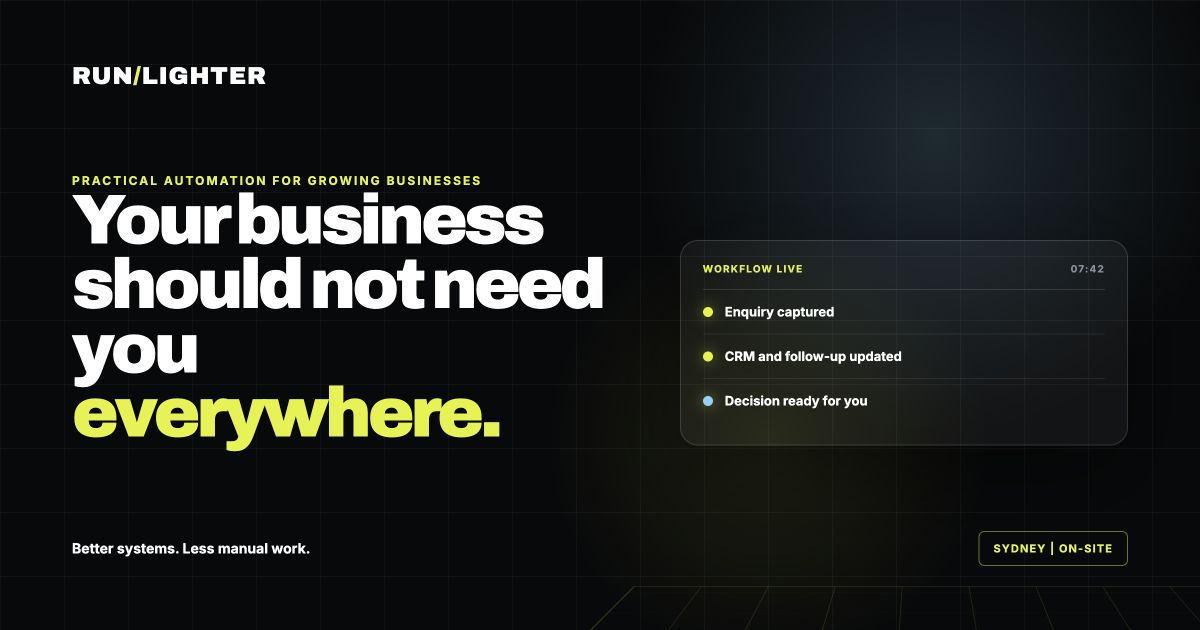
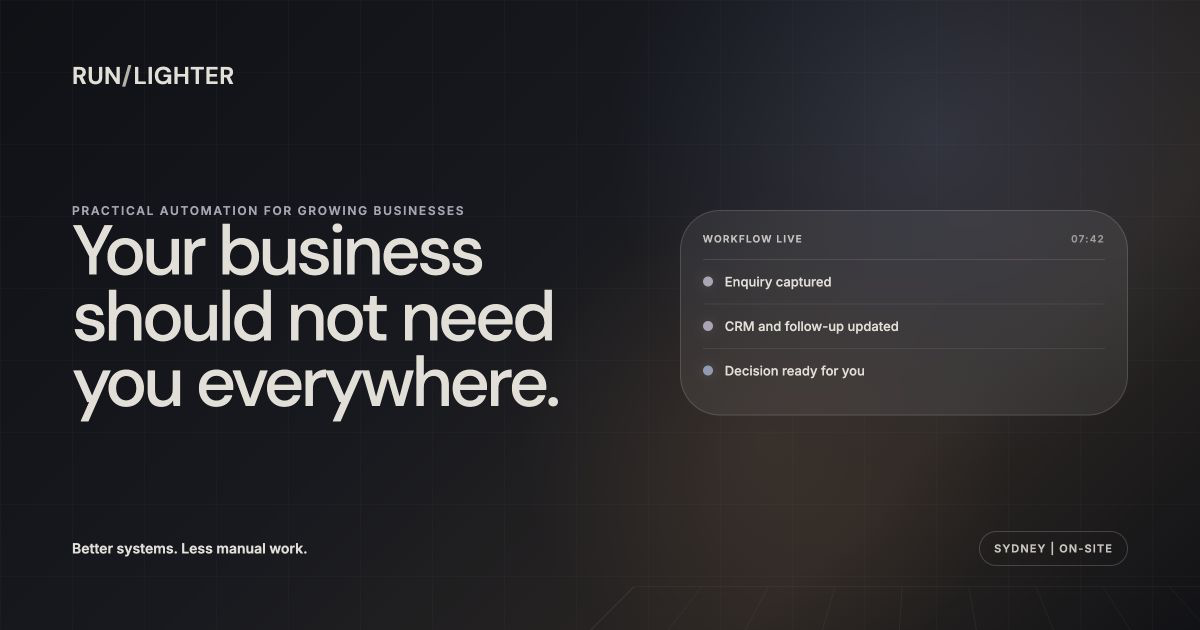
Calm the Run Lighter visual system

diff --git a/index.html b/index.html
@@ -20,7 +20,7 @@
 <link rel="icon" type="image/png" href="assets/favicon.png">
 <link rel="preconnect" href="https://fonts.googleapis.com">
 <link rel="preconnect" href="https://fonts.gstatic.com" crossorigin>
-<link href="https://fonts.googleapis.com/css2?family=Archivo:wght@500;600;700;800;900&amp;family=Inter:wght@400;500;600;700&amp;display=swap" rel="stylesheet">
+<link href="https://fonts.googleapis.com/css2?family=DM+Sans:wght@400;500;600&amp;family=Inter:wght@400;500;600;700&amp;display=swap" rel="stylesheet">
 <style>
 :root{
   --void:#08090a;
@@ -196,6 +196,103 @@ footer{padding:62px 0 36px;background:var(--void);border-top:1px solid var(--lin
   .container{width:min(100% - 36px,1180px)}.nav-links{display:none}.menu-btn{display:inline-flex}.hero h1{font-size:clamp(47px,14vw,68px)}.hero::after{left:5%;width:110vw}.system-stage{padding:14px}.stage-foot,.cards,.tiers,.fit-grid,.form-row{grid-template-columns:1fr}.bento{grid-template-columns:1fr}.panel.large,.panel.wide{grid-column:auto}.panel.large{min-height:450px}.cards .card{min-height:230px}.method-grid{gap:36px}.step{grid-template-columns:48px 1fr;gap:16px}.trust-grid{grid-template-columns:1fr}.trust-item{border-right:0;border-bottom:1px solid var(--line-light)}.trust-item:last-child{border-bottom:0}.foot-grid{display:block}.foot-right{text-align:left;margin-top:28px}form{padding:20px}.micro{align-items:flex-start}.hero-ctas{display:grid}.hero-ctas .btn{width:100%}
 }
 @media(prefers-reduced-motion:reduce){html{scroll-behavior:auto}*,*::before,*::after{animation-duration:.01ms!important;animation-iteration-count:1!important;transition-duration:.01ms!important}.reveal{opacity:1;transform:none}}
+
+/* CALM DUSK DIRECTION */
+:root{
+  --void:#0a0a0a;
+  --carbon:#111112;
+  --obsidian:#161616;
+  --graphite:#202024;
+  --smoke:#686868;
+  --ash:#9d9a98;
+  --fog:#b6b2ae;
+  --mist:#d0ccc6;
+  --bone:#e2ded7;
+  --paper:#171719;
+  --acid:#c8c3bd;
+  --cool:#8f99b5;
+  --line-dark:rgba(226,222,215,.14);
+  --line-light:rgba(226,222,215,.14);
+  --r-sm:9999px;
+  --r-md:24px;
+  --r-lg:40px;
+}
+body{background:var(--void);color:var(--bone)}
+h1,h2,h3,.wordmark{font-family:'DM Sans','Inter',sans-serif;letter-spacing:-.035em}
+h2{font-weight:500}
+h3{font-weight:500}
+.section{padding:88px 0}
+.wordmark{font-weight:600;letter-spacing:.015em}
+.eyebrow{color:#aaa5b4;font-weight:600;letter-spacing:.14em}
+.eyebrow::before{box-shadow:none;background:#aaa5b4}
+.btn{background:var(--bone);color:var(--void);font-weight:600;box-shadow:none}
+.btn:hover{background:#f0ece5;box-shadow:0 0 0 4px rgba(226,222,215,.08);transform:translateY(-1px)}
+.btn.ghost{background:rgba(212,212,212,.06);border-color:rgba(229,229,229,.22);color:var(--bone)}
+.btn.ghost:hover{background:rgba(212,212,212,.1);border-color:rgba(229,229,229,.32)}
+nav{top:16px;left:50%;right:auto;width:min(1100px,calc(100% - 32px));transform:translateX(-50%);border:1px solid rgba(229,229,229,.14);border-radius:9999px;background:rgba(18,18,19,.64);backdrop-filter:blur(24px)}
+nav.scrolled{background:rgba(18,18,19,.86);border-color:rgba(229,229,229,.2)}
+.nav-inner{height:58px;padding:0 18px}
+.slash{color:#b6b0a8}
+.hero{padding-top:150px;background:linear-gradient(135deg,#101116 0%,#17191f 40%,#24201f 72%,#111216 100%)}
+.hero::before{background:radial-gradient(circle at var(--mx,75%) var(--my,25%),rgba(91,104,142,.28),transparent 32%),radial-gradient(circle at 72% 50%,rgba(154,112,83,.2),transparent 30%),linear-gradient(rgba(229,229,229,.025) 1px,transparent 1px),linear-gradient(90deg,rgba(229,229,229,.025) 1px,transparent 1px);background-size:auto,auto,72px 72px,72px 72px;mask-image:linear-gradient(to bottom,#000 58%,transparent 100%)}
+.hero::after{border-color:rgba(196,190,182,.12);background:repeating-linear-gradient(90deg,rgba(196,190,182,.07) 0 1px,transparent 1px 84px),repeating-linear-gradient(0deg,rgba(143,153,181,.06) 0 1px,transparent 1px 60px);box-shadow:none}
+.hero h1{font-weight:500;letter-spacing:-.052em}
+.hero h1 .mark{color:var(--bone)}
+.hero .lead{color:#c2beb8}
+.micro::before,.live i,.flow-node.done .node-icon{background:#aaa5b4;box-shadow:0 0 14px rgba(170,165,180,.25)}
+.system-stage{border-radius:40px;padding:20px;background:rgba(212,212,212,.08);backdrop-filter:blur(22px);box-shadow:none;border-color:rgba(229,229,229,.16)}
+.system-stage::before{background:radial-gradient(440px circle at var(--cx,50%) var(--cy,0%),rgba(143,153,181,.16),transparent 52%)}
+.live,.node-state{color:#c6c0b8}
+.flow-node{border-radius:18px;background:rgba(10,10,10,.52)}
+.node-copy b{font-family:'DM Sans','Inter',sans-serif;font-weight:500}
+.flow-node:hover{border-color:rgba(229,229,229,.28)}
+.flow-node.you .node-icon{background:#8f99b5;box-shadow:0 0 0 1px #8f99b5,0 0 14px rgba(143,153,181,.24)}
+.flow-node.you .node-state{color:#aeb7d0}
+.signal-track .dot{color:#8f99b5}
+.lighter{background:linear-gradient(145deg,#17191f,#262120 58%,#14161b);color:var(--bone)}
+.lighter::before{background:radial-gradient(circle at 8% 15%,rgba(154,112,83,.14),transparent 24%),radial-gradient(circle at 92% 78%,rgba(91,104,142,.16),transparent 26%)}
+.lighter .sub,.panel p{color:var(--fog)}
+.panel,.panel.wide{background:rgba(212,212,212,.07);border-color:rgba(229,229,229,.14);color:var(--bone);backdrop-filter:blur(18px);box-shadow:none}
+.panel:hover{box-shadow:none;border-color:rgba(229,229,229,.24)}
+.panel.large{background:rgba(10,10,10,.4)}
+.panel .tag{color:#aaa5b4}.panel.large .tag{color:#aaa5b4}
+.mini-line i{background:#aaa5b4;box-shadow:0 0 12px rgba(170,165,180,.22)}
+.big-number,.panel.large .big-number{color:rgba(226,222,215,.08)}
+.handover span{background:rgba(212,212,212,.09);border-color:rgba(229,229,229,.16);color:var(--bone)}
+.handover b{background:linear-gradient(90deg,#a58b78,#8f99b5)}
+.handover b::after{border-left-color:#8f99b5}
+.problem,.fit,.founder,.faq-section{background:#111214;color:var(--bone)}
+.problem .sub,.fit .sub,.founder-copy p,details p{color:var(--fog)}
+.card,.fit-col{background:rgba(212,212,212,.045);border-color:rgba(229,229,229,.13);color:var(--bone)}
+.card::before{background:radial-gradient(380px circle at var(--cx,50%) var(--cy,50%),rgba(143,153,181,.12),transparent 48%)}
+.card p,.fit-item{color:var(--fog)}
+.kicker span{color:var(--bone);background:linear-gradient(transparent 65%,rgba(143,153,181,.2) 65%)}
+.kicker,.step-num,.metric b,.price,.initials{font-family:'DM Sans','Inter',sans-serif}
+.method{background:#0d0e10}
+.step-num{color:#aaa5b4;font-weight:500}.step h3,.principle b{font-weight:500}
+.principle{border-color:rgba(143,153,181,.24);background:rgba(143,153,181,.05)}
+.services{background:#151515}
+.tier{border-radius:24px;background:rgba(212,212,212,.04)}
+.tier.featured{border-color:rgba(196,190,182,.25);background:linear-gradient(145deg,rgba(154,112,83,.08),rgba(143,153,181,.05))}
+.tier-label{color:#aaa5b4}.badge{background:#d8d3cc;color:#151515}
+.inc span::before{color:#aaa5b4}
+.fit-item{border-color:rgba(229,229,229,.1)}
+.ic{background:#c8c3bd}.no .ic{background:#292a2d;color:#9d9a98}.no .fit-item{color:#8f8b88}
+.trust-grid,.trust-item{border-color:rgba(229,229,229,.12)}
+.trust-item{color:var(--fog)}.trust-item b{color:var(--bone);font-weight:500}
+.monogram{border-radius:40px;background:linear-gradient(145deg,#20232b,#2c2522)}
+.monogram::before{background:linear-gradient(rgba(229,229,229,.035) 1px,transparent 1px),linear-gradient(90deg,rgba(229,229,229,.035) 1px,transparent 1px);background-size:36px 36px}
+.initials span{color:#aaa5b4}
+.book{background:linear-gradient(145deg,#111318,#211d1c)}
+.book::before{background:radial-gradient(circle at 50% 15%,rgba(91,104,142,.16),transparent 35%),linear-gradient(rgba(229,229,229,.02) 1px,transparent 1px),linear-gradient(90deg,rgba(229,229,229,.02) 1px,transparent 1px);background-size:auto,64px 64px,64px 64px}
+form{border-radius:24px;background:rgba(212,212,212,.06);backdrop-filter:blur(18px);box-shadow:none}
+.field input,.field textarea{border-radius:12px;color:var(--bone)}.field input:focus,.field textarea:focus{border-color:#b7b0a8;box-shadow:0 0 0 3px rgba(183,176,168,.08)}
+.success,.form-error{border-color:rgba(196,190,182,.25);background:rgba(212,212,212,.07);color:var(--bone)}
+details,details:last-child{border-color:rgba(229,229,229,.12)}
+summary{font-family:'DM Sans','Inter',sans-serif;font-weight:500}
+summary::after{color:#aaa5b4}
+footer{background:#0a0a0a}.foot-right a{color:#c8c3bd}
+@media(max-width:700px){nav{top:10px;width:calc(100% - 20px)}.nav-inner{height:56px;padding:0 14px}.hero{padding-top:120px}.section{padding:72px 0}}
 </style>
 </head>
 <body>

diff --git a/social/og-card.html b/social/og-card.html
@@ -5,9 +5,9 @@
 <meta name="viewport" content="width=device-width, initial-scale=1.0">
 <link rel="preconnect" href="https://fonts.googleapis.com">
 <link rel="preconnect" href="https://fonts.gstatic.com" crossorigin>
-<link href="https://fonts.googleapis.com/css2?family=Archivo:wght@700;800;900&amp;family=Inter:wght@600;700&amp;display=swap" rel="stylesheet">
+<link href="https://fonts.googleapis.com/css2?family=DM+Sans:wght@400;500;600&amp;family=Inter:wght@500;600&amp;display=swap" rel="stylesheet">
 <style>
-*{box-sizing:border-box}html,body{width:1200px;height:630px;margin:0;overflow:hidden}body{position:relative;background:#08090a;color:#fff;font-family:Inter,sans-serif}body::before{content:"";position:absolute;inset:0;background:radial-gradient(circle at 78% 22%,rgba(125,211,252,.16),transparent 28%),radial-gradient(circle at 64% 70%,rgba(228,242,34,.1),transparent 25%),linear-gradient(rgba(255,255,255,.04) 1px,transparent 1px),linear-gradient(90deg,rgba(255,255,255,.04) 1px,transparent 1px);background-size:auto,auto,64px 64px,64px 64px}.grid-floor{position:absolute;width:720px;height:380px;right:-80px;bottom:-220px;border:1px solid rgba(228,242,34,.22);background:repeating-linear-gradient(90deg,rgba(228,242,34,.13) 0 1px,transparent 1px 84px),repeating-linear-gradient(0deg,rgba(228,242,34,.09) 0 1px,transparent 1px 60px);transform:perspective(650px) rotateX(61deg)}.content{position:relative;height:100%;padding:64px 72px;display:flex;flex-direction:column;justify-content:space-between}.brand{font:900 24px/1 Archivo;letter-spacing:.04em}.brand span{color:#e4f222}.eyebrow{color:#e4f222;font-size:12px;font-weight:800;letter-spacing:.17em;text-transform:uppercase}.main{display:grid;grid-template-columns:1.1fr .9fr;gap:60px;align-items:end}.headline{font:900 70px/.92 Archivo;letter-spacing:-.055em;max-width:760px}.headline span{color:#e4f222}.workflow{border:1px solid rgba(255,255,255,.14);border-radius:18px;padding:22px;background:rgba(255,255,255,.045);box-shadow:0 30px 80px rgba(0,0,0,.4)}.bar{display:flex;justify-content:space-between;color:#8a8f98;font-size:10px;font-weight:800;letter-spacing:.12em;text-transform:uppercase;padding-bottom:14px;border-bottom:1px solid rgba(255,255,255,.12)}.bar b{color:#e4f222}.node{display:flex;align-items:center;gap:12px;padding:14px 0;border-bottom:1px solid rgba(255,255,255,.08);font-size:13px;font-weight:700}.node:last-child{border:0}.node i{width:10px;height:10px;border-radius:50%;background:#e4f222;box-shadow:0 0 14px rgba(228,242,34,.55)}.node:last-child i{background:#7dd3fc}.footer{display:flex;justify-content:space-between;align-items:center;color:#8a8f98;font-size:14px}.footer b{color:#fff}.pill{border:1px solid rgba(228,242,34,.45);border-radius:6px;padding:10px 14px;color:#e4f222;font-size:11px;font-weight:800;letter-spacing:.1em;text-transform:uppercase}
+*{box-sizing:border-box}html,body{width:1200px;height:630px;margin:0;overflow:hidden}body{position:relative;background:linear-gradient(135deg,#101116 0%,#17191f 42%,#2b2522 75%,#111216 100%);color:#e2ded7;font-family:Inter,sans-serif}body::before{content:"";position:absolute;inset:0;background:radial-gradient(circle at 78% 22%,rgba(91,104,142,.28),transparent 31%),radial-gradient(circle at 64% 70%,rgba(154,112,83,.18),transparent 28%),linear-gradient(rgba(229,229,229,.025) 1px,transparent 1px),linear-gradient(90deg,rgba(229,229,229,.025) 1px,transparent 1px);background-size:auto,auto,72px 72px,72px 72px}.grid-floor{position:absolute;width:720px;height:380px;right:-80px;bottom:-220px;border:1px solid rgba(196,190,182,.12);background:repeating-linear-gradient(90deg,rgba(196,190,182,.07) 0 1px,transparent 1px 84px),repeating-linear-gradient(0deg,rgba(143,153,181,.06) 0 1px,transparent 1px 60px);transform:perspective(650px) rotateX(61deg)}.content{position:relative;height:100%;padding:64px 72px;display:flex;flex-direction:column;justify-content:space-between}.brand{font:600 24px/1 'DM Sans';letter-spacing:.02em}.brand span{color:#b6b0a8}.eyebrow{color:#aaa5b4;font-size:12px;font-weight:600;letter-spacing:.14em;text-transform:uppercase}.main{display:grid;grid-template-columns:1.1fr .9fr;gap:60px;align-items:end}.headline{font:500 70px/.94 'DM Sans';letter-spacing:-.05em;max-width:760px}.headline span{color:#e2ded7}.workflow{border:1px solid rgba(229,229,229,.16);border-radius:40px;padding:22px;background:rgba(212,212,212,.08);backdrop-filter:blur(22px)}.bar{display:flex;justify-content:space-between;color:#9d9a98;font-size:10px;font-weight:600;letter-spacing:.12em;text-transform:uppercase;padding-bottom:14px;border-bottom:1px solid rgba(229,229,229,.12)}.bar b{color:#c8c3bd}.node{display:flex;align-items:center;gap:12px;padding:14px 0;border-bottom:1px solid rgba(229,229,229,.08);font-size:13px;font-weight:500}.node:last-child{border:0}.node i{width:10px;height:10px;border-radius:50%;background:#aaa5b4;box-shadow:0 0 12px rgba(170,165,180,.24)}.node:last-child i{background:#8f99b5}.footer{display:flex;justify-content:space-between;align-items:center;color:#9d9a98;font-size:14px}.footer b{color:#e2ded7}.pill{border:1px solid rgba(196,190,182,.25);border-radius:9999px;padding:10px 14px;color:#c8c3bd;font-size:11px;font-weight:600;letter-spacing:.1em;text-transform:uppercase}
 </style>
 </head>
 <body><div class="grid-floor"></div><div class="content"><div class="brand">RUN<span>/</span>LIGHTER</div><div class="main"><div><div class="eyebrow">Practical automation for growing businesses</div><div class="headline">Your business should not need you <span>everywhere.</span></div></div><div class="workflow"><div class="bar"><b>Workflow live</b><span>07:42</span></div><div class="node"><i></i>Enquiry captured</div><div class="node"><i></i>CRM and follow-up updated</div><div class="node"><i></i>Decision ready for you</div></div></div><div class="footer"><b>Better systems. Less manual work.</b><span class="pill">Sydney | On-site</span></div></div></body>

diff --git a/social/favicon-card.html b/social/favicon-card.html
@@ -1,1 +1,1 @@
-<!DOCTYPE html><html><head><meta charset="UTF-8"><style>*{box-sizing:border-box}html,body{width:100vw;height:100vh;margin:0;overflow:hidden}body{display:grid;place-items:center;background:#08090a}.mark{width:64px;height:64px;display:grid;place-items:center;color:#fff;font:900 32px/1 Arial,sans-serif;border:1px solid #23252a}.mark span{color:#e4f222}</style></head><body><div class="mark">R<span>/</span></div></body></html>
+<!DOCTYPE html><html><head><meta charset="UTF-8"><style>*{box-sizing:border-box}html,body{width:100vw;height:100vh;margin:0;overflow:hidden}body{display:grid;place-items:center;background:#0a0a0a}.mark{width:64px;height:64px;display:grid;place-items:center;color:#e2ded7;font:600 32px/1 Arial,sans-serif;border:1px solid #2c2c2e}.mark span{color:#aaa5b4}</style></head><body><div class="mark">R<span>/</span></div></body></html>